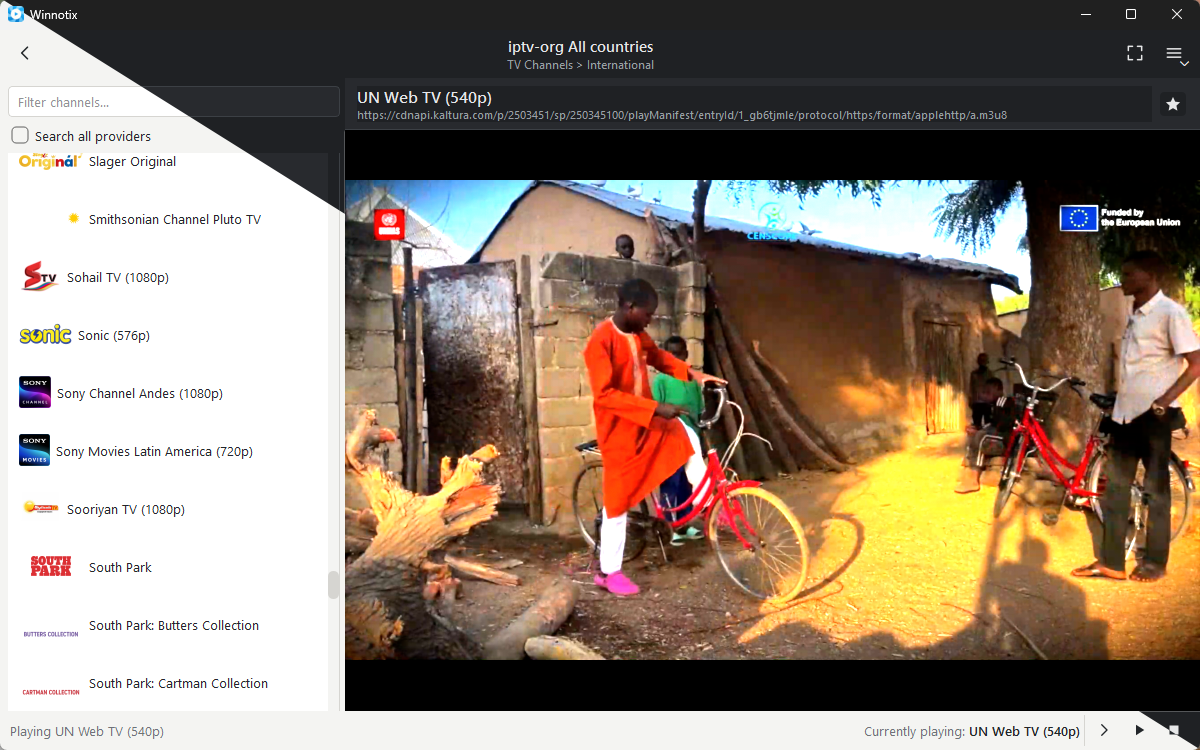
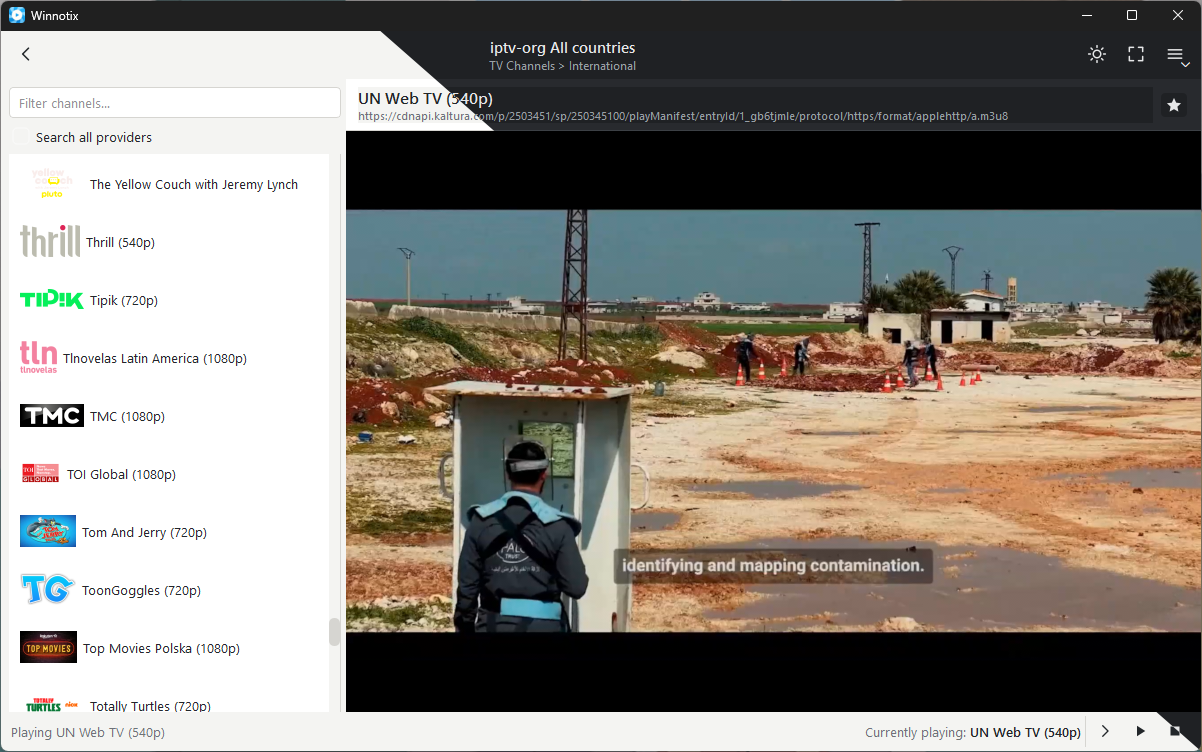
docs: cut the screenshot along the app's own edge, not the window corner
Both themes in one image, from captures taken with the new header button on a
paused frame, so the only difference between them is the theme.

A corner-to-corner diagonal was tried first and looked wrong: it slices through
the top of the channel list, which reads as a rendering fault rather than as a
design. Starting the cut where the app already draws a boundary -- the sidebar
edge at x=345 -- leaves the list whole, crosses the header in the empty space
between the title and the buttons, and crosses the video where the two frames
are identical and the seam cannot be seen at all. No divider line: the change
in the header's own colour is the line, and a drawn one across the video was a
distraction.

Both captures are committed next to the composite and tools/split_screenshot.py
rebuilds it, so redoing this after a UI change is a command rather than an
afternoon in an image editor. The tool refuses two captures of different sizes,
which is the mistake that would otherwise be discovered by eye.

diff --git a/tools/split_screenshot.py b/tools/split_screenshot.py
@@ -1,0 +1,94 @@
+#!/usr/bin/env python3
+"""Composite two screenshots of the same window into one diagonally split image.
+
+    python tools/split_screenshot.py assets/screenshot-light.png \\
+                                     assets/screenshot-dark.png \\
+                                     assets/splitexample.png
+
+Used for the README image that shows both themes at once. Take the two captures
+with the theme button in the header, without moving or resizing the window and
+with playback paused, so the only difference between them is the theme -- the
+video frame has to be identical or the seam shows.
+
+**The cut starts at the sidebar edge rather than the window corner.** A
+corner-to-corner diagonal slices through the top of the channel list, which
+reads as a rendering fault; starting at the boundary the app already draws
+leaves the list whole, crosses the header where there is empty space between
+the title and the buttons, and crosses the video where the two frames are
+identical and the seam is invisible.
+"""
+
+from __future__ import annotations
+
+import argparse
+import sys
+
+from PySide6.QtCore import Qt
+from PySide6.QtGui import (QBrush, QColor, QGuiApplication, QImage, QPainter,
+                           QPainterPath, QPen, QPixmap)
+
+#: Where the sidebar meets the player at the window's default width.
+DEFAULT_TOP_X = 345
+
+
+def split(base_path: str, overlay_path: str, out_path: str,
+          top_x: int = DEFAULT_TOP_X, divider: str | None = None) -> None:
+    """Draw `overlay` right of the diagonal, over `base`."""
+    base = QImage(base_path)
+    overlay = QPixmap(overlay_path)
+    if base.isNull() or overlay.isNull():
+        raise SystemExit("could not read one of the images")
+    if base.size() != overlay.size():
+        raise SystemExit(
+            f"the captures differ in size: {base.width()}x{base.height()} vs "
+            f"{overlay.width()}x{overlay.height()}. Take both without resizing "
+            "the window."
+        )
+
+    width, height = base.width(), base.height()
+    result = QImage(base)
+    painter = QPainter(result)
+    painter.setRenderHint(QPainter.RenderHint.Antialiasing, True)
+
+    path = QPainterPath()
+    path.moveTo(top_x, 0)
+    path.lineTo(width, 0)
+    path.lineTo(width, height)
+    path.closeSubpath()
+    painter.setPen(Qt.PenStyle.NoPen)
+    # A texture brush aligns to the origin, so the overlay lands exactly where
+    # it would have been drawn whole.
+    painter.setBrush(QBrush(overlay))
+    painter.drawPath(path)
+
+    if divider:
+        pen = QPen(QColor(divider))
+        pen.setWidthF(1.4)
+        painter.setPen(pen)
+        painter.drawLine(top_x, 0, width, height)
+    painter.end()
+
+    if not result.save(out_path):
+        raise SystemExit(f"could not write {out_path}")
+    print(f"{out_path}  ({width}x{height})")
+
+
+def main(argv: list[str] | None = None) -> int:
+    parser = argparse.ArgumentParser(description=__doc__.splitlines()[0])
+    parser.add_argument("base", help="the capture kept on the lower left")
+    parser.add_argument("overlay", help="the capture drawn on the upper right")
+    parser.add_argument("out", help="where to write the composite")
+    parser.add_argument("--top-x", type=int, default=DEFAULT_TOP_X,
+                        help=f"where the cut meets the top edge (default {DEFAULT_TOP_X})")
+    parser.add_argument("--divider", metavar="COLOUR", default=None,
+                        help="draw a hairline along the cut, e.g. #9aa0a6")
+    args = parser.parse_args(argv)
+
+    # QImage needs a Qt application before it will render anything.
+    QGuiApplication(sys.argv[:1])
+    split(args.base, args.overlay, args.out, args.top_x, args.divider)
+    return 0
+
+
+if __name__ == "__main__":
+    raise SystemExit(main())

diff --git a/changelog.md b/changelog.md
@@ -46,6 +46,13 @@ forked at upstream `0e0fa1c` (v5.6). Licensed GPLv3.
 - **The screenshot in the README shows the app playing**, from a file the repository serves itself
   rather than a third-party image host, and both themes at once. The previous one predated the
   Pluto change and advertised numbers the README's own blocklist section contradicted.
+  - **The cut starts at the sidebar edge, not the window corner.** A corner-to-corner diagonal
+    slices through the top of the channel list and reads as a rendering fault; starting where the
+    app already draws a boundary leaves the list whole, crosses the header in the empty space
+    between the title and the buttons, and crosses the video where the two frames are identical
+    and the seam cannot be seen.
+  - Both captures are kept alongside the composite, and `tools/split_screenshot.py` rebuilds it,
+    so the next one is a command rather than an afternoon in an image editor.
 
 ---
 

diff --git a/README.md b/README.md
@@ -1,6 +1,6 @@
 # ![shadow](https://imglink.cc/cdn/DcEzN0VkW8.png)  Winnotix 
 
-![Winnotix playing UN Web TV, split diagonally to show the light and dark themes](assets/splitexample.png)
+![Winnotix playing UN Web TV, split diagonally: the light theme on the left with the channel list, the dark theme on the right with the header and player](assets/splitexample.png)
 
 
 An IPTV player for Windows — a port of [Hypnotix](https://github.com/linuxmint/hypnotix), the Linux
